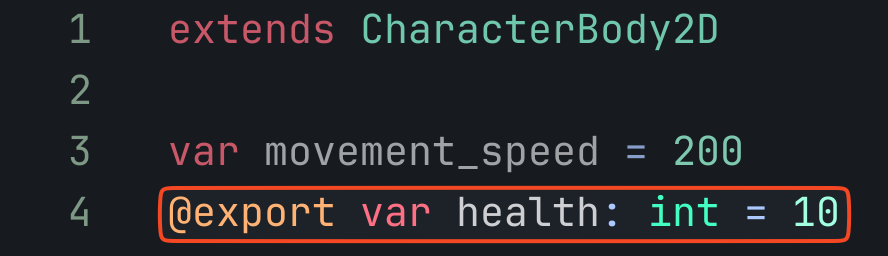
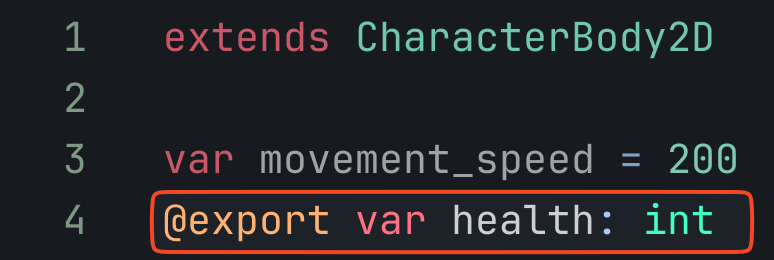
health display

diff --git a/ISD/1 - Digital Assets/_project/Space Invaders/Player Health.md b/ISD/1 - Digital Assets/_project/Space Invaders/Player Health.md
@@ -59,7 +59,7 @@ Open `Player.gd` and create a new variable to store the players health.
 ![[playersHealthVariable.png]]
 
 ```gdscript
-@export var health: int = 10
+@export var health: int
 ```
 
 > [!info] Defining it as `@export` allows the developer to set the value from the inspector tab for the node. This allows different instances of the same node to have different starting values. E.g. different enemies can have different health.
@@ -86,7 +86,7 @@ func change_health(health_modifier):
 Save the File.
 
 ![[commonBlocks#Commit & Push]]
-# Reducing Health
+## Reducing Health
 
 The players health can be reduced when an enemy bullet collision occurs. If the bullet collides with the player, the `change_health` function will be called in `player.gd`.
 
@@ -104,6 +104,117 @@ Save the file.
 
 ![[commonBlocks#Commit & Push]]
 
-# Increasing Health
+## Increasing Health
 
 TBA
+
+# Health Display
+
+The players health is managed internally, however the user doesn't get informed of the current status.
+
+There are many ways to display health to the user, either the raw values, or hearts or a health bar etc. In this stage of the tutorial hearts will be used. The assets for these hearts were from [https://kenney.nl/assets/platformer-art-deluxe](https://kenney.nl/assets/platformer-art-deluxe)
+
+Download the heart images and copy them to the **Images** folder in your project.
+
+![[hud_heartEmpty.png]]
+
+![[hud_heartHalf.png]]
+
+![[hud_heartFull.png]]
+
+![[ISD/1 - Digital Assets/_project/Space Invaders/_images/playerHealthHeartsImport.png]]
+
+
+Open `MainGame.tscn`. Create a **HBoxContainer** as a child of **HUD**, renaming it `Health`. Create five **TextureRect**s as children of `Health`. Your hierarchy is to look like this.
+
+![[playerHealthHUDNodes.png]]
+
+For each of the TextureRects, select it in the Node list, and drag `hud_heartFull.png` to the Texture option in the inspector.
+
+![[playerHealthAssignTexture.png]]
+
+
+
+
+Attach a script to the `Health` HboxContainer, naming the file `Health.gd`. Replace the contents with the code shown.
+
+At this stage, nothing will occur if the game is run. The `update_health` function will need to be called by the main game script to update the hearts based on the players health.
+
+> [!important] ********************REMEMBER!!!******************** The paths to the images need to match. Check capitalisations and the **********exact********** path for each of the images. E.g. - `res://Images/hud_heartFull.png`
+> 
+
+
+```gdscript
+extends HBoxContainer
+
+enum MODES {simple, empty, partial}
+
+var heart_full = preload("res://Images/hud_heartFull.png")
+var heart_empty = preload("res://Images/hud_heartEmpty.png")
+var heart_half = preload("res://Images/hud_heartHalf.png")
+
+@export var mode: MODES
+
+func update_health(value):
+	match mode:
+		MODES.simple:	
+			update_simple(value)
+		MODES.empty:
+			update_empty(value)
+		MODES.partial:
+			update_partial(value)
+
+func update_simple(value):
+	for i in get_child_count():
+		get_child(i).visible = value > i
+
+func update_empty(value):
+
+	for i in get_child_count():
+		if value > i:
+			get_child(i).texture = heart_full
+		else:
+			get_child(i).texture = heart_empty
+
+func update_partial(value):
+	for i in get_child_count():
+		if value > i * 2 + 1:
+			get_child(i).texture = heart_full
+		elif value > i * 2:
+			get_child(i).texture = heart_half
+		else:
+			get_child(i).texture = heart_empty
+
+```
+
+This code is relatively complex and introduces a new variable type - ENUMs.
+
+> [!info]- Enums
+> More information on enums can be found here - [[enums]].
+
+Save the file.
+
+## `MainGame.gd`
+
+Open `MainGame.gd` and edit `_process()`. Add a line of code to call the `update_health` function just created.
+
+![[playerHealthMainGameUpdate.png]]
+
+```gdscript
+$HUD/Health.update_health($Player.health)
+```
+
+
+# Functionality
+
+Depending on the values you've chosen the logic may need to be modified.
+
+For instance, if the `Mode` is set to Simple, this assumes that the players health starts at 5, and each bullet inflicts 1 HP worth of damage.
+
+![[playerHealthLogicSimple.png]]
+
+You may need to tweak the values in your project to match the health system. Alternatively, you can tweak the logic of the Simple, Partial or Empty modes. 
+
+# Demonstration
+
+![[playerHealthHeartsExampleFull.gif]]
